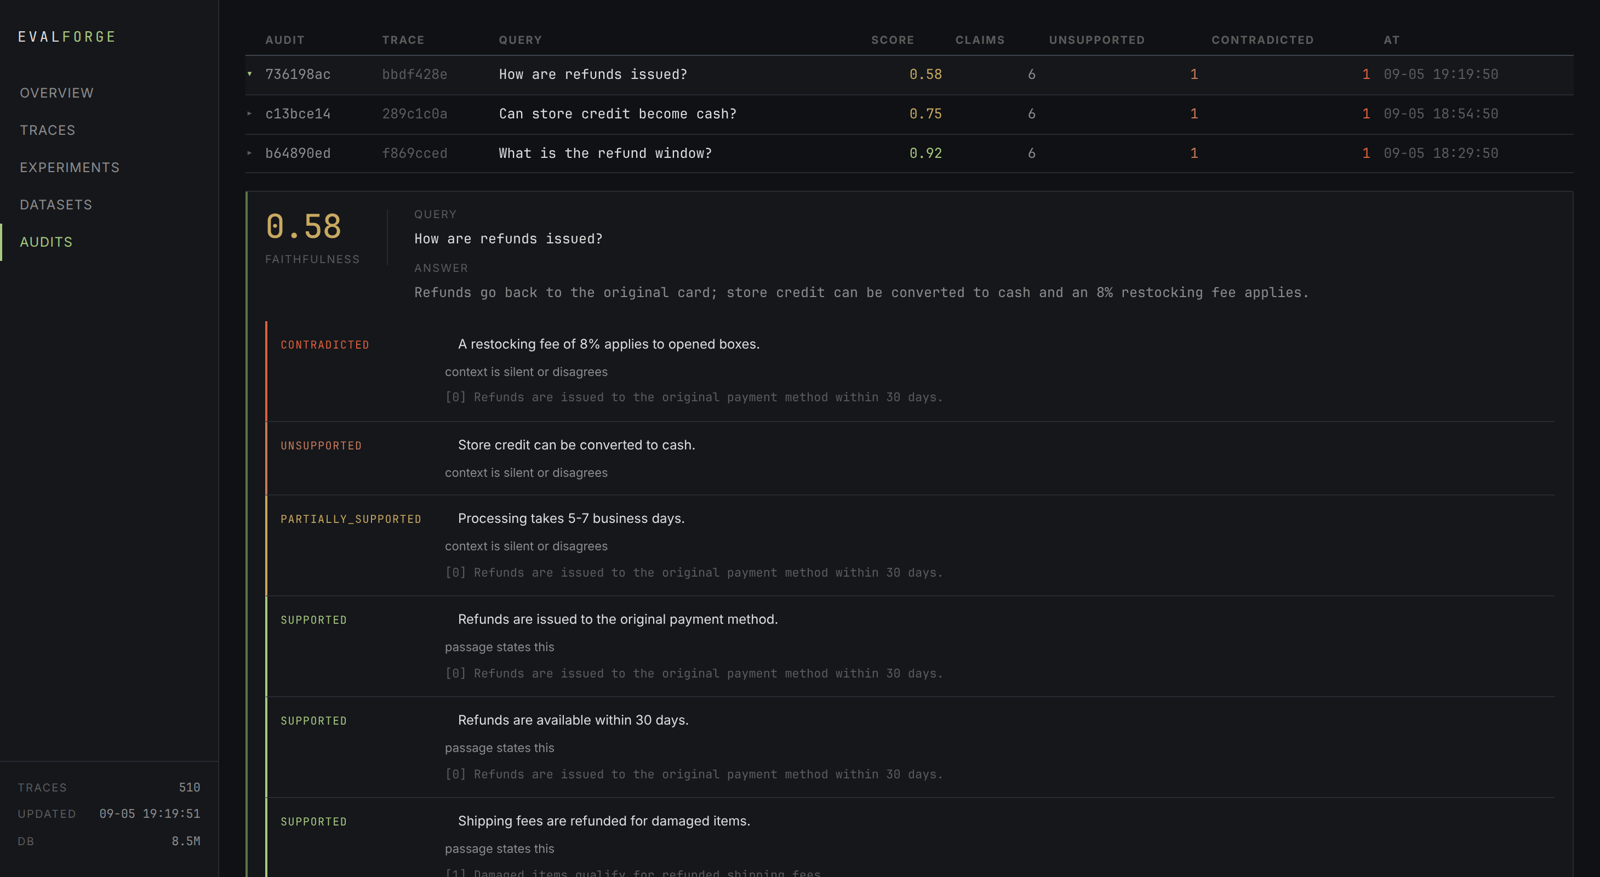
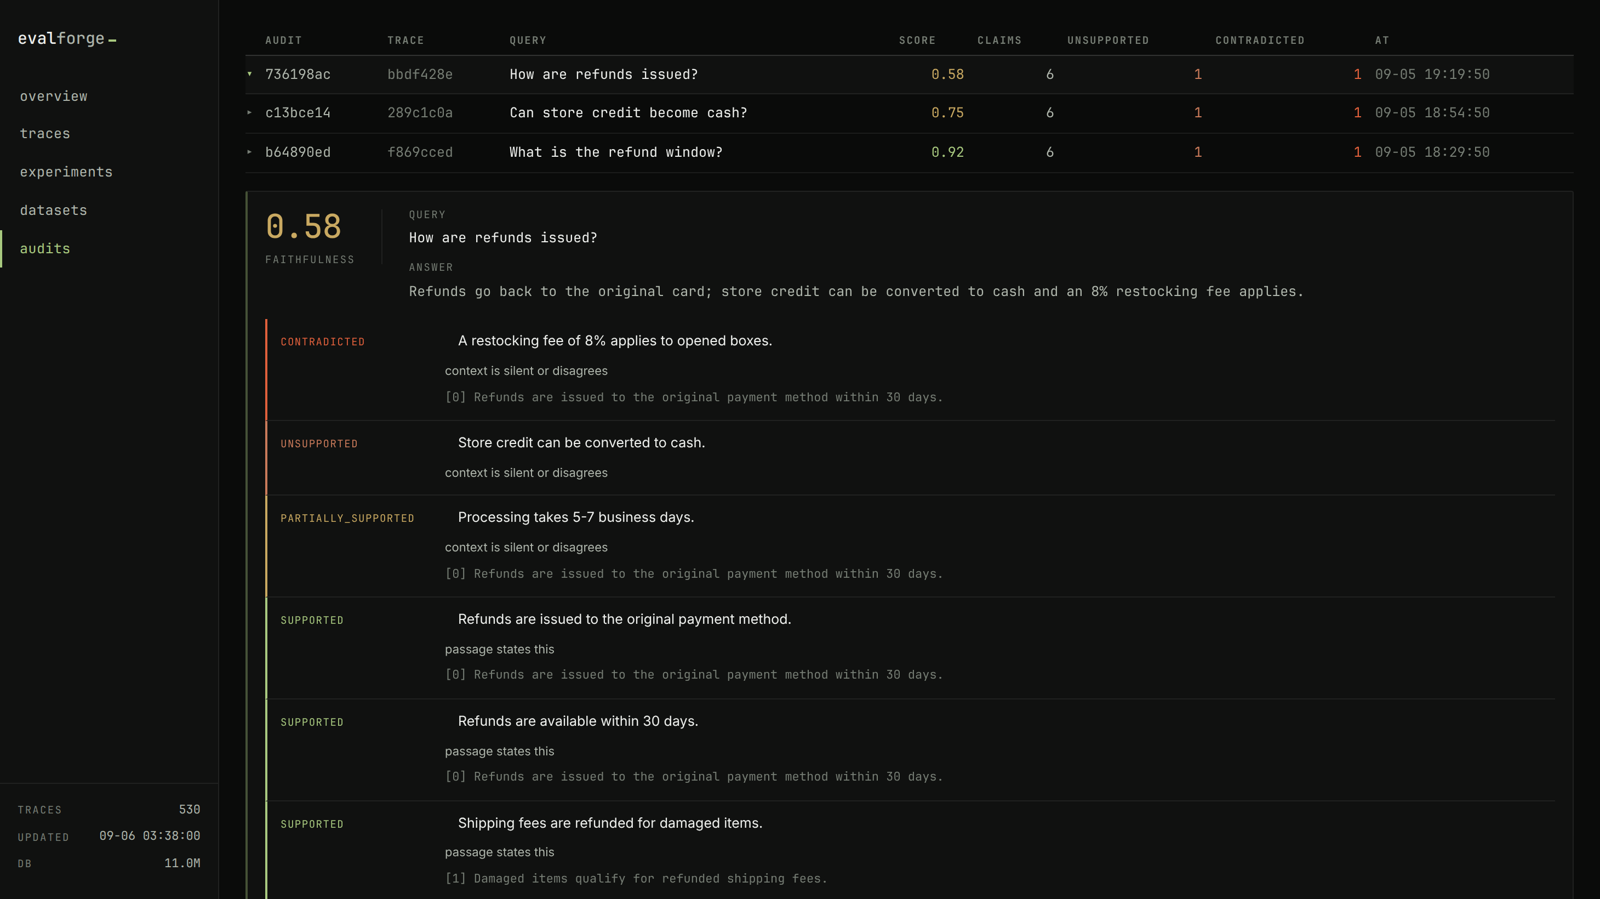
style: one visual system across the panel and the landing page
The dashboard had its own palette — a cool blue-tinted near-black, Inter,
its own greys — while the landing page used a warm near-black and
Instrument Sans. Two surfaces of one product should not disagree about
what colour black is.

- styles.py now carries the landing page's tokens verbatim: #0A0B0A
  ground, #EDEFEC text, the #A8C97F accent, Instrument Sans + JetBrains
  Mono
- Sidebar wears the same lowercase evalforge_ wordmark, caret included
- Nav is mono, matching the chrome on the page
- Density stays where it was: square corners, 26px rows, tight padding.
  Identity belongs in colour and type; a marketing page breathes and an
  instrument does not
- An empty metric now dims its placeholder, so a quiet 24h window reads
  as "no data" rather than as a stray mark at 30px

Repository moved to swapnil5053/eval-forge; URLs updated and the remote
added.

diff --git a/docs/index.html b/docs/index.html
@@ -378,7 +378,7 @@
       </a>
       <div class="header__actions">
         <div class="pill header__prompt-pill"><span class="header__prompt">$</span>pip install evalforge</div>
-        <a class="pill pill--link" href="https://github.com/swapnil5053/evalforge">github<span aria-hidden="true">↗</span></a>
+        <a class="pill pill--link" href="https://github.com/swapnil5053/eval-forge">github<span aria-hidden="true">↗</span></a>
       </div>
     </div>
   </header>
@@ -510,7 +510,7 @@
       <span class="footer__line">Tracing and evals for LLM apps, on your machine.</span>
     </div>
     <div class="footer__links">
-      <a href="https://github.com/swapnil5053/evalforge">github</a>
+      <a href="https://github.com/swapnil5053/eval-forge">github</a>
       <a href="#code">docs</a>
     </div>
   </footer>

diff --git a/src/evalforge/dashboard/styles.py b/src/evalforge/dashboard/styles.py
@@ -1,28 +1,36 @@
 """Every colour, size and font the dashboard uses.
 
-The look is an instrument panel: near-black ground, one warm accent, monospace for
-anything numeric, and borders instead of shadows. Nothing in the dashboard writes a
-colour or a size literal - it comes from here, so retuning the whole panel means
-editing this file.
+The palette and type are the same ones the landing page in ``docs/`` uses, so the
+product reads as one thing: a near-black ground with a faint warm cast, one green
+accent, Instrument Sans for words and JetBrains Mono for anything numeric.
+
+Where the panel deliberately departs from the landing page is density. Marketing
+pages breathe; an instrument does not. Corners stay square, padding stays tight and
+rows stay 26px, because this surface is read at a glance rather than scrolled
+through. Identity lives in colour and type, not in radius.
+
+Nothing else in the dashboard writes a colour or a size literal, so retuning the
+whole panel means editing this file.
 """
 
-# Ground and surfaces. The background is near-black with a slight cool cast, which
-# is what lets a warm accent read as an indicator lamp rather than a brand colour.
-BACKGROUND = "hsl(220, 14%, 7%)"
-SURFACE = "hsl(220, 13%, 9.5%)"
-SURFACE_RAISED = "hsl(220, 12%, 12.5%)"
-BORDER = "hsl(220, 10%, 17%)"
-BORDER_BRIGHT = "hsl(220, 10%, 27%)"
+# Ground and surfaces, straight from the landing page's tokens.
+BACKGROUND = "#0A0B0A"
+SURFACE = "#101110"
+SURFACE_RAISED = "#121312"
+BAND = "#0D0E0D"
+BORDER = "rgba(255, 255, 255, 0.07)"
+BORDER_BRIGHT = "rgba(255, 255, 255, 0.14)"
 
-TEXT = "hsl(0, 0%, 87%)"
-TEXT_DIM = "hsl(0, 0%, 55%)"
-TEXT_FAINT = "hsl(0, 0%, 36%)"
+TEXT = "#EDEFEC"
+TEXT_DIM = "#AEB5AB"
+TEXT_MUTED = "#828981"
+TEXT_FAINT = "#767D74"
 
-# One accent, used only for the active nav item, the primary chart series, bars, and
-# interactive affordances on hover. Status colours are not the accent.
-# Matches the accent on the landing page in docs/, so the product reads as one thing.
+# One accent: the active nav item, the primary chart series, bars, and interactive
+# affordances on hover. It doubles as the "good" status colour, as on the landing page.
 ACCENT = "#A8C97F"
-ACCENT_MUTED = "#5F7549"
+ACCENT_BRIGHT = "#BCDC92"
+ACCENT_MUTED = "rgba(168, 201, 127, 0.35)"
 
 OK = "#A8C97F"
 WARN = "#C9A961"
@@ -31,12 +39,12 @@ ERROR = "#C97A5A"
 # Chart series, dimmest first: p50 is background information, p99 is the alarm.
 SERIES = (TEXT_FAINT, TEXT_DIM, ACCENT)
 
-MONO = "'JetBrains Mono', 'SF Mono', 'Menlo', 'Consolas', monospace"
-SANS = "'Inter', -apple-system, 'Segoe UI', 'Roboto', sans-serif"
+MONO = "'JetBrains Mono', ui-monospace, SFMono-Regular, Menlo, monospace"
+SANS = "'Instrument Sans', system-ui, -apple-system, 'Segoe UI', sans-serif"
 
-FONT_LABEL = "10px"
+FONT_LABEL = "9.5px"
 FONT_SMALL = "11px"
-FONT_BODY = "12px"
+FONT_BODY = "12.5px"
 FONT_DATA = "12.5px"
 FONT_METRIC = "30px"
 
@@ -51,15 +59,15 @@ SIDEBAR_WIDTH = "200px"
 ROW_HEIGHT = "26px"
 
 STYLESHEETS = [
-    "https://fonts.googleapis.com/css2?family=Inter:wght@400;500&"
+    "https://fonts.googleapis.com/css2?family=Instrument+Sans:wght@400;500;600&"
     "family=JetBrains+Mono:wght@400;500&display=swap"
 ]
 
 # Small, uppercase, letter-spaced and dim: the engraved label under a panel dial.
 LABEL = {
-    "font_family": SANS,
+    "font_family": MONO,
     "font_size": FONT_LABEL,
-    "letter_spacing": "0.11em",
+    "letter_spacing": "0.12em",
     "text_transform": "uppercase",
     "color": TEXT_FAINT,
     "line_height": "1",
@@ -149,13 +157,13 @@ BASE = {
     "color": TEXT,
     "font_family": SANS,
     "font_size": FONT_BODY,
-    "::selection": {"background": ACCENT_MUTED, "color": TEXT},
+    "-webkit-font-smoothing": "antialiased",
+    "::selection": {"background": ACCENT, "color": BACKGROUND},
     "::-webkit-scrollbar": {"width": "10px", "height": "10px"},
     "::-webkit-scrollbar-track": {"background": BACKGROUND},
-    "::-webkit-scrollbar-thumb": {"background": BORDER, "border": f"2px solid {BACKGROUND}"},
-    "::-webkit-scrollbar-thumb:hover": {"background": BORDER_BRIGHT},
+    "::-webkit-scrollbar-thumb": {"background": BORDER_BRIGHT, "border": f"2px solid {BACKGROUND}"},
+    "::-webkit-scrollbar-thumb:hover": {"background": TEXT_FAINT},
 }
-
 
 # Claim verdicts, worst last: the audit view colours by severity, not by score.
 VERDICT_COLOURS = {

diff --git a/src/evalforge/dashboard/app.py b/src/evalforge/dashboard/app.py
@@ -42,14 +42,28 @@ def shell(body: rx.Component, route: str) -> rx.Component:
 
 def _sidebar(route: str) -> rx.Component:
     return rx.el.nav(
+        # The same wordmark the landing page uses, down to the blinking caret.
         rx.el.div(
-            rx.el.span("EVAL", style={"color": styles.TEXT}),
-            rx.el.span("FORGE", style={"color": styles.ACCENT}),
+            rx.el.span("eval", style={"color": styles.TEXT}),
+            rx.el.span("forge", style={"color": styles.TEXT_DIM}),
+            rx.el.span(
+                style={
+                    "display": "inline-block",
+                    "width": "7px",
+                    "height": "2px",
+                    "background": styles.ACCENT,
+                    "margin_left": "3px",
+                    "margin_bottom": "2px",
+                    "vertical_align": "baseline",
+                    "animation": "efBlink 1.4s steps(1) infinite",
+                }
+            ),
             style={
                 "font_family": styles.MONO,
-                "font_size": "13px",
-                "letter_spacing": "0.18em",
-                "padding": f"{styles.SPACE_5} {styles.SPACE_4} {styles.SPACE_5}",
+                "font_size": "15px",
+                "font_weight": "500",
+                "letter_spacing": "-0.01em",
+                "padding": f"{styles.SPACE_5} {styles.SPACE_4}",
             },
         ),
         rx.el.div(*[_nav_item(name, href, route) for name, href in NAV]),
@@ -78,10 +92,10 @@ def _nav_item(name: str, href: str, route: str) -> rx.Component:
         href=href if built else "#",
         style={
             "display": "block",
-            "font_family": styles.SANS,
+            # Mono, like the chrome on the landing page.
+            "font_family": styles.MONO,
             "font_size": styles.FONT_BODY,
-            "letter_spacing": "0.06em",
-            "text_transform": "uppercase",
+            "letter_spacing": "0.02em",
             "text_decoration": "none",
             "color": colour,
             "padding": f"{styles.SPACE_2} {styles.SPACE_4}",
@@ -148,7 +162,13 @@ def audit_list() -> rx.Component:
 app = rx.App(
     style=styles.BASE,
     stylesheets=styles.STYLESHEETS,
-    head_components=[rx.el.style("body { margin: 0; }")],
+    head_components=[
+        rx.el.style(
+            "body { margin: 0; }"
+            "@keyframes efBlink { 0%, 49% { opacity: 1; } 50%, 100% { opacity: 0; } }"
+            "@media (prefers-reduced-motion: reduce) { * { animation: none !important; } }"
+        )
+    ],
 )
 for page, route, title in (
     (index, "/", "EvalForge"),

diff --git a/src/evalforge/dashboard/components.py b/src/evalforge/dashboard/components.py
@@ -17,7 +17,15 @@ def metric(
     """A dial: the number is the largest thing on screen, the caption is engraved."""
     return rx.el.div(
         rx.el.div(
-            rx.el.span(value, style=styles.METRIC),
+            # A placeholder is not a reading: dim it so an empty window does not look
+            # like a value someone should try to interpret.
+            rx.el.span(
+                value,
+                style={
+                    **styles.METRIC,
+                    "color": rx.cond(value == "—", styles.TEXT_FAINT, "inherit"),
+                },
+            ),
             rx.cond(
                 unit != "",
                 rx.el.span(
